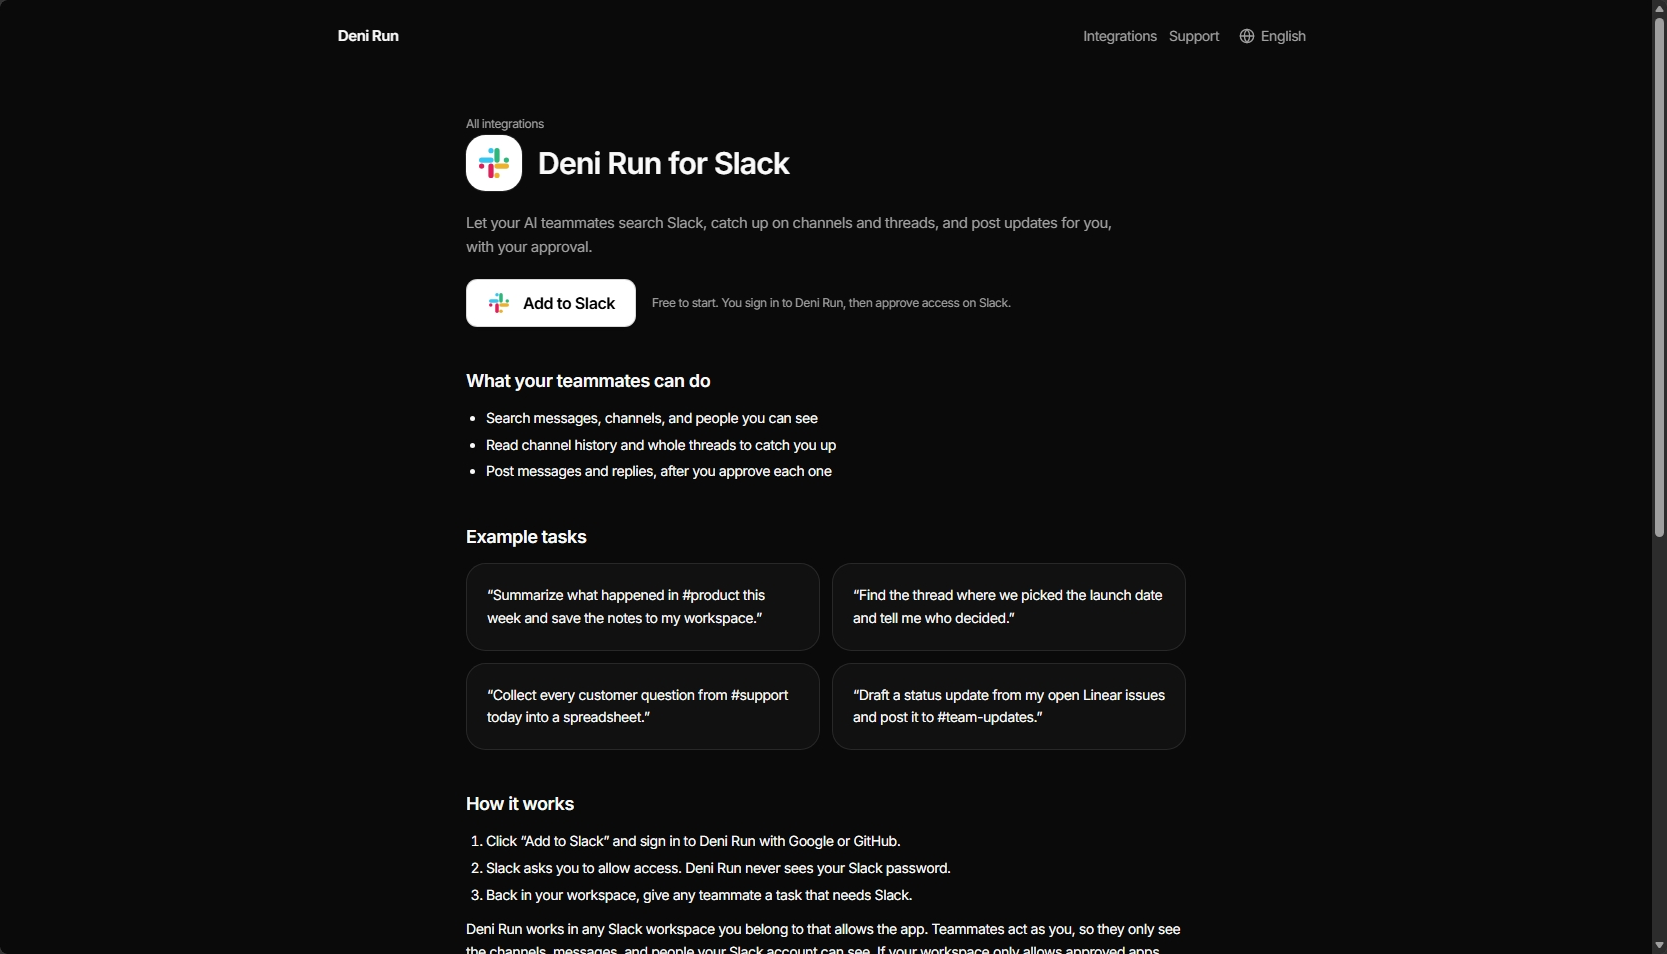
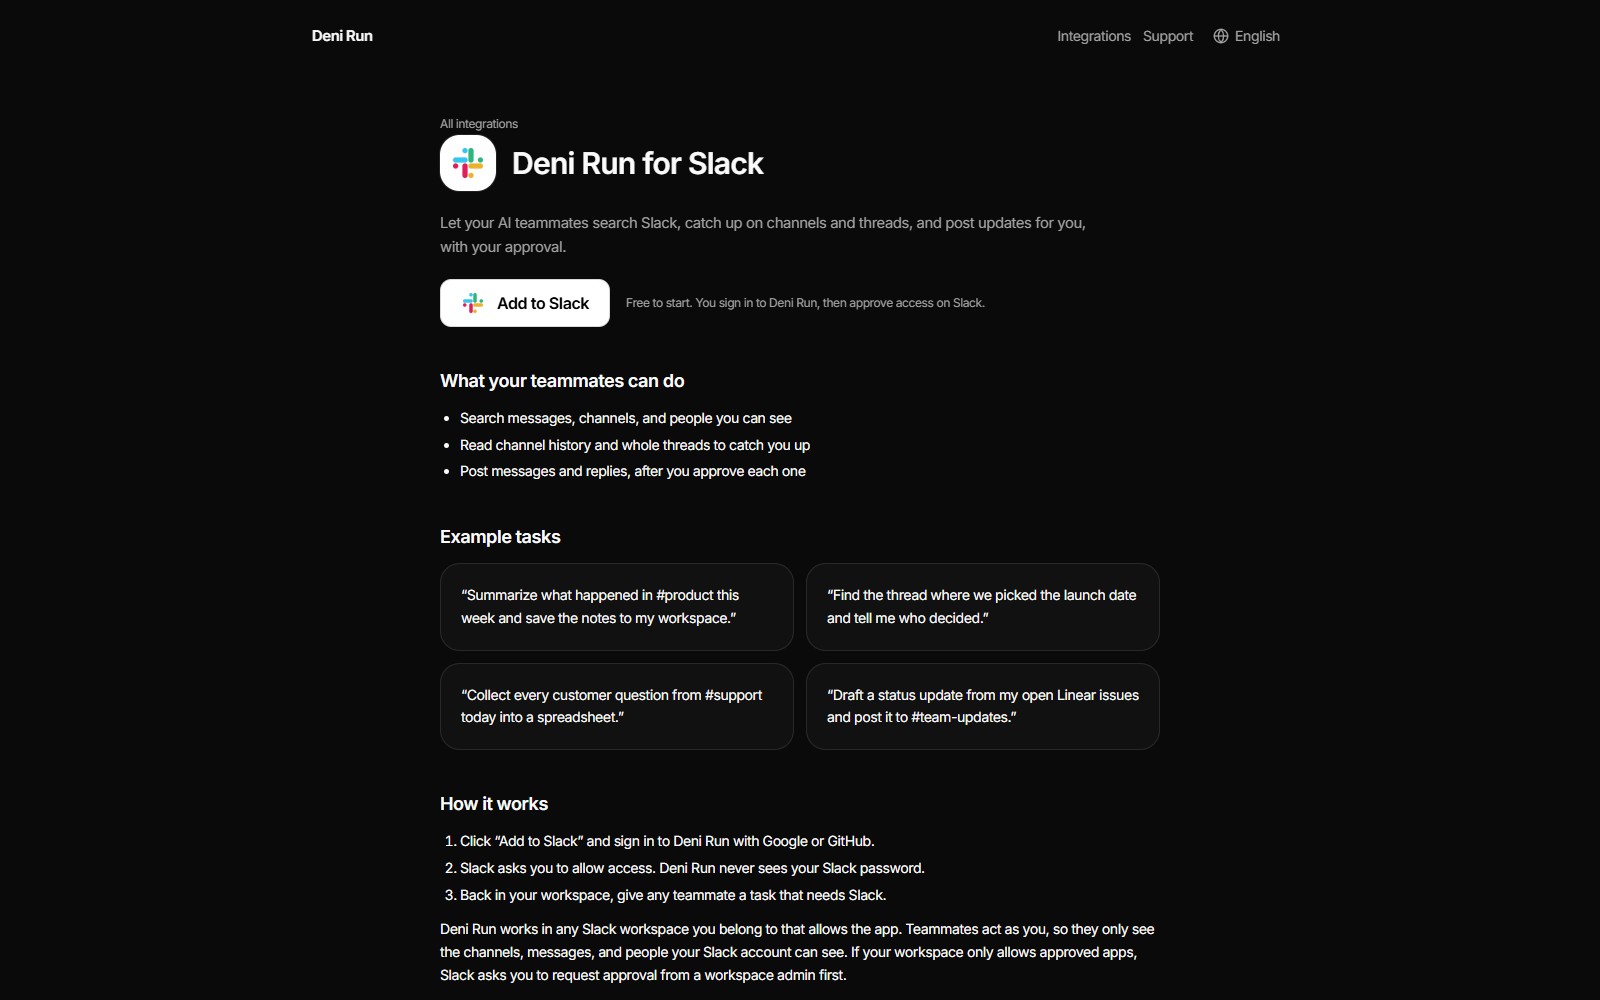
fix(web): retake the Slack Marketplace screenshots at 1600x1000
The first set showed political news, typos in the prompts, a stale model
error, and "a connected app" instead of Slack in the tool steps. Retake
them on a release-planning channel after the label fix, all at the
listing's 1600x1000 size.

diff --git a/app/routes/integrations/slack-screenshots.tsx b/app/routes/integrations/slack-screenshots.tsx
@@ -44,8 +44,8 @@ function SlackScreenshotsPage() {
               <img
                 src={`/marketplace/slack/${shot}.png`}
                 alt={captions[shot]}
-                width={1667}
-                height={954}
+                width={1600}
+                height={1000}
                 loading={index < 2 ? "eager" : "lazy"}
                 className="h-auto w-full rounded-xl border border-foreground/10"
               />
